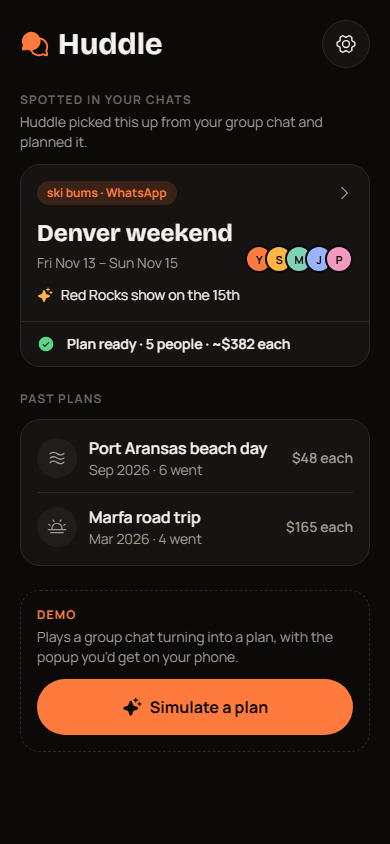
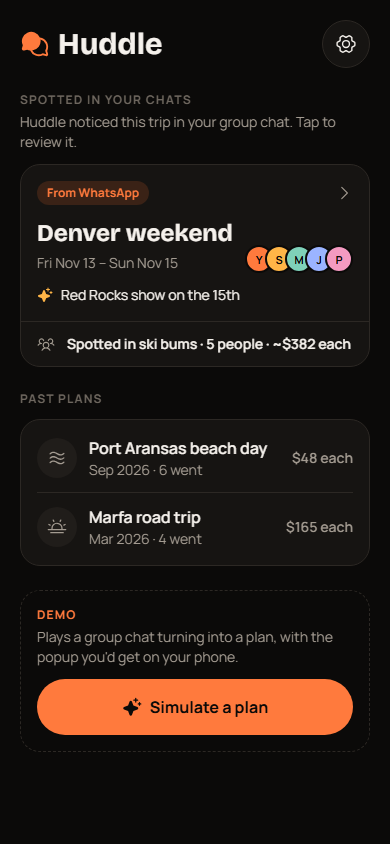
fix(app): review nits on demo polish
- Reset confirm renders in Settings' sticky footer and takes focus
- Summary re-infers or clears stale auto-filled answers after prefs change
- Neutral plan card copy, onboarding edit ends with Done, informational
  chat access row, reset copy says it restores the demo

Changed region(s): [[0.0615, 0.1232, 0.8615, 0.1848], [0.0923, 0.4005, 0.8923, 0.4313], [0.1231, 0.2156, 0.4615, 0.2464]]

diff --git a/apps/mobile/src/components/settings/ResetDemo.tsx b/apps/mobile/src/components/settings/ResetDemo.tsx
@@ -1,47 +1,53 @@
-import { ArrowCounterClockwise } from "phosphor-react-native";
-import { useState } from "react";
-import { View } from "react-native";
-import Animated, { FadeIn } from "react-native-reanimated";
-import { Body, Button, Card, Muted } from "@/components/ui";
-import { colors, icon } from "@/theme";
+import { useEffect, useRef } from "react";
+import { AccessibilityInfo, type HostInstance, Platform, Text, View } from "react-native";
+import Animated, { FadeInDown } from "react-native-reanimated";
+import { Button, Muted } from "@/components/ui";
 
 type Props = {
+  onCancel: () => void;
   onConfirm: () => void;
-  initiallyOpen?: boolean; // screenshot state
 };
 
-// "Reset demo" with an inline confirm (no browser/system dialog, which looks off on stage).
-export function ResetDemo({ onConfirm, initiallyOpen = false }: Props) {
-  const [confirming, setConfirming] = useState(initiallyOpen);
+// Inline "Start the demo over?" confirm (no browser/system dialog, which looks off on stage).
+// Rendered in the Screen's sticky footer so the buttons are always on screen.
+export function ResetConfirm({ onCancel, onConfirm }: Props) {
+  const box = useRef<HostInstance>(null);
+  const title = useRef<HostInstance>(null);
 
-  if (!confirming) {
-    return (
-      <Button
-        label="Reset demo"
-        variant="secondary"
-        icon={<ArrowCounterClockwise size={20} color={colors.ink} weight={icon.weight} />}
-        onPress={() => setConfirming(true)}
-      />
-    );
-  }
+  // Move screen-reader / keyboard focus to the confirm: TalkBack lands on the question,
+  // the web build focuses Cancel.
+  useEffect(() => {
+    if (Platform.OS === "web") {
+      const el = box.current as unknown as {
+        querySelector?: (s: string) => { focus?: () => void } | null;
+      } | null;
+      el?.querySelector?.('[role="button"]')?.focus?.();
+    } else if (title.current) {
+      AccessibilityInfo.sendAccessibilityEvent(title.current, "focus");
+    }
+  }, []);
 
   return (
-    <Animated.View entering={FadeIn.duration(180)}>
-      <Card className="gap-4 border-accent">
-        <View className="gap-1" accessibilityLiveRegion="polite">
-          <Body className="font-body-semibold">Start the demo over?</Body>
-          <Muted>This clears your preferences and the Denver plan, then opens onboarding.</Muted>
+    <Animated.View entering={FadeInDown.duration(200)}>
+      <View ref={box} accessibilityViewIsModal className="gap-3 pb-1">
+        <View className="gap-1">
+          <Text
+            ref={title}
+            accessibilityRole="header"
+            className="font-body-bold text-base leading-6 text-ink"
+          >
+            Start the demo over?
+          </Text>
+          <Muted>
+            Clears your preferences and restores the Denver plan to its starting picks, then opens
+            onboarding.
+          </Muted>
         </View>
         <View className="flex-row gap-3">
-          <Button
-            label="Cancel"
-            variant="secondary"
-            onPress={() => setConfirming(false)}
-            className="flex-1"
-          />
+          <Button label="Cancel" variant="secondary" onPress={onCancel} className="flex-1" />
           <Button label="Reset" onPress={onConfirm} className="flex-1" />
         </View>
-      </Card>
+      </View>
     </Animated.View>
   );
 }

diff --git a/apps/mobile/src/app/settings.tsx b/apps/mobile/src/app/settings.tsx
@@ -1,5 +1,6 @@
 import { router, useLocalSearchParams } from "expo-router";
 import {
+  ArrowCounterClockwise,
   BellRinging,
   CaretLeft,
   Compass,
@@ -11,13 +12,14 @@ import {
   Sparkle,
   Wallet,
 } from "phosphor-react-native";
+import { useState } from "react";
 import { Pressable, Text, View } from "react-native";
 import { IconButton } from "@/components/home/IconButton";
 import { budgetOptions } from "@/components/onboarding/options";
-import { ResetDemo } from "@/components/settings/ResetDemo";
+import { ResetConfirm } from "@/components/settings/ResetDemo";
 import { SettingRow } from "@/components/settings/SettingRow";
 import { demoPrefs } from "@/components/summary/personalize";
-import { Badge, Card, Label, Muted, Screen, Title } from "@/components/ui";
+import { Button, Card, Label, Muted, Screen, Title } from "@/components/ui";
 import type { Preferences } from "@/mocks/types";
 import { usePlan } from "@/store/plan";
 import { usePreferences, usePreferencesHydrated } from "@/store/preferences";
@@ -51,6 +53,7 @@ export default function Settings() {
   const maxTravel = usePreferences((s) => s.maxTravel);
   const prefs: Preferences =
     demo === "prefs" || demo === "reset" ? demoPrefs : { vibes, budget, food, maxTravel };
+  const [confirming, setConfirming] = useState(demo === "reset");
 
   if (!hydrated) return <View className="flex-1 bg-bg" />;
 
@@ -72,7 +75,15 @@ export default function Settings() {
   ];
 
   return (
-    <Screen scroll className="gap-6">
+    <Screen
+      scroll
+      className="gap-6"
+      footer={
+        confirming ? (
+          <ResetConfirm onCancel={() => setConfirming(false)} onConfirm={resetDemo} />
+        ) : undefined
+      }
+    >
       <View className="flex-row items-center gap-3 pt-3">
         <IconButton icon={CaretLeft} label="Back" onPress={goBack} />
         <Title accessibilityRole="header">Settings</Title>
@@ -112,12 +123,13 @@ export default function Settings() {
           <SettingRow
             first
             icon={BellRinging}
-            title="Notification access"
-            detail="Connect WhatsApp & Instagram"
-            right={<Badge label="Soon" />}
+            title="Coming soon"
+            detail="Read WhatsApp & Instagram on Android"
           />
         </Card>
-        <Muted className="px-1">Android only, coming with the notification listener.</Muted>
+        <Muted className="px-1">
+          Arrives with the Android notification listener. Nothing to set up here yet.
+        </Muted>
       </View>
 
       <View className="gap-3">
@@ -134,7 +146,12 @@ export default function Settings() {
 
       <View className="gap-3">
         <Label>Demo</Label>
-        <ResetDemo onConfirm={resetDemo} initiallyOpen={demo === "reset"} />
+        <Button
+          label="Reset demo"
+          variant="secondary"
+          icon={<ArrowCounterClockwise size={20} color={colors.ink} weight={icon.weight} />}
+          onPress={() => setConfirming(true)}
+        />
       </View>
     </Screen>
   );

diff --git a/apps/mobile/src/components/home/PlanCard.tsx b/apps/mobile/src/components/home/PlanCard.tsx
@@ -1,4 +1,4 @@
-import { CaretRight, CheckCircle, Sparkle } from "phosphor-react-native";
+import { CaretRight, Sparkle, UsersThree } from "phosphor-react-native";
 import { Pressable, View } from "react-native";
 import { AvatarStack, Badge, Heading, Muted } from "@/components/ui";
 import { estimatePerPerson, groupSize, nightsBetween } from "@/lib/pricing";
@@ -8,7 +8,8 @@ import { colors, icon } from "@/theme";
 
 const appName = { whatsapp: "WhatsApp", instagram: "Instagram" } as const;
 
-// The plan Huddle spotted in the group chat. Tapping it reopens the trip summary.
+// The trip Huddle spotted in the group chat. Tapping it opens the trip summary.
+// Neutral copy: it never claims the plan is done before the demo runs the agent.
 export function PlanCard({ onPress }: { onPress: () => void }) {
   const picks = usePlan((s) => s.picks);
   const people = groupSize(trip);
@@ -19,7 +20,7 @@ export function PlanCard({ onPress }: { onPress: () => void }) {
     nights: nightsBetween(trip.dates.start, trip.dates.end),
   });
   const status = [
-    picks.length > 0 ? "Plan ready" : "Nothing picked yet",
+    `Spotted in ${trip.sourceChat.name}`,
     `${people} ${people === 1 ? "person" : "people"}`,
     perPerson > 0 ? `~$${perPerson} each` : null,
   ]
@@ -29,16 +30,13 @@ export function PlanCard({ onPress }: { onPress: () => void }) {
   return (
     <Pressable
       accessibilityRole="button"
-      accessibilityLabel={`${trip.title}, ${trip.dates.label}. ${status}. Open plan`}
+      accessibilityLabel={`${trip.title}, ${trip.dates.label}. ${status}. Review plan`}
       onPress={onPress}
       className="rounded-card border border-line bg-surface active:opacity-80"
     >
       <View className="gap-3 p-4">
         <View className="flex-row items-center justify-between">
-          <Badge
-            label={`${trip.sourceChat.name} · ${appName[trip.sourceChat.app]}`}
-            tone="accent"
-          />
+          <Badge label={`From ${appName[trip.sourceChat.app]}`} tone="accent" />
           <CaretRight size={18} color={colors.muted} weight={icon.weight} />
         </View>
         <View className="flex-row items-end gap-3">
@@ -54,11 +52,7 @@ export function PlanCard({ onPress }: { onPress: () => void }) {
         </View>
       </View>
       <View className="flex-row items-center gap-3 border-t border-line px-4 py-3">
-        <CheckCircle
-          size={18}
-          color={picks.length > 0 ? colors.good : colors.faint}
-          weight={icon.activeWeight}
-        />
+        <UsersThree size={18} color={colors.muted} weight={icon.weight} />
         <Muted className="flex-1 font-body-semibold text-ink">{status}</Muted>
       </View>
     </Pressable>

diff --git a/apps/mobile/src/app/plan/summary.tsx b/apps/mobile/src/app/plan/summary.tsx
@@ -53,20 +53,36 @@ export default function Summary() {
   );
 
   // Computed during render (not after an effect) so the footer is right on the first frame.
-  const shown = (id: string) => saved[id] ?? inferred[id] ?? undefined;
+  // An auto-filled answer that no longer matches the preferences (edited in Settings) is stale:
+  // ignore it so it never looks user-chosen. The effect below re-infers or clears it.
+  const stale = (id: string) => !isDemo && autoFilled.has(id) && saved[id] !== inferred[id];
+  const shown = (id: string) => (stale(id) ? undefined : saved[id]) ?? inferred[id] ?? undefined;
   const fromPreferences = (id: string) =>
     inferred[id] != null &&
     shown(id) === inferred[id] &&
     (saved[id] === undefined || (!isDemo && autoFilled.has(id)));
 
-  // Real flow: save what onboarding answered so later screens see it. Never overwrite a choice.
+  // Real flow: save what onboarding answered so later screens see it. Never overwrite a choice
+  // the user tapped; only answers we auto-filled get re-inferred or cleared.
   useEffect(() => {
     if (isDemo) return;
     for (const c of clarifications) {
       const auto = inferred[c.id];
-      if (auto && usePlan.getState().answers[c.id] === undefined) {
-        autoFilled.add(c.id);
-        answer(c.id, auto);
+      const current = usePlan.getState().answers[c.id];
+      if (current === undefined) {
+        if (auto) {
+          autoFilled.add(c.id);
+          answer(c.id, auto);
+        }
+      } else if (autoFilled.has(c.id) && current !== auto) {
+        if (auto) answer(c.id, auto);
+        else {
+          autoFilled.delete(c.id);
+          usePlan.setState((s) => {
+            const { [c.id]: _, ...rest } = s.answers;
+            return { answers: rest };
+          });
+        }
       }
     }
   }, [isDemo, inferred, answer]);

diff --git a/apps/mobile/src/app/index.tsx b/apps/mobile/src/app/index.tsx
@@ -37,7 +37,7 @@ export default function Home() {
       <View className="gap-3">
         <View className="gap-1">
           <Label>Spotted in your chats</Label>
-          <Muted>Huddle picked this up from your group chat and planned it.</Muted>
+          <Muted>Huddle noticed this trip in your group chat. Tap to review it.</Muted>
         </View>
         <PlanCard onPress={() => router.push("/plan/summary")} />
       </View>

diff --git a/apps/mobile/src/app/onboarding.tsx b/apps/mobile/src/app/onboarding.tsx
@@ -87,7 +87,7 @@ export default function Onboarding() {
             />
           ) : null}
           <Button
-            label={step === last ? (editing ? "Save" : "Let's go") : "Next"}
+            label={step === last ? (editing ? "Done" : "Let's go") : "Next"}
             icon={
               step === last ? (
                 <Check size={20} color={colors.bg} weight={icon.weight} />
